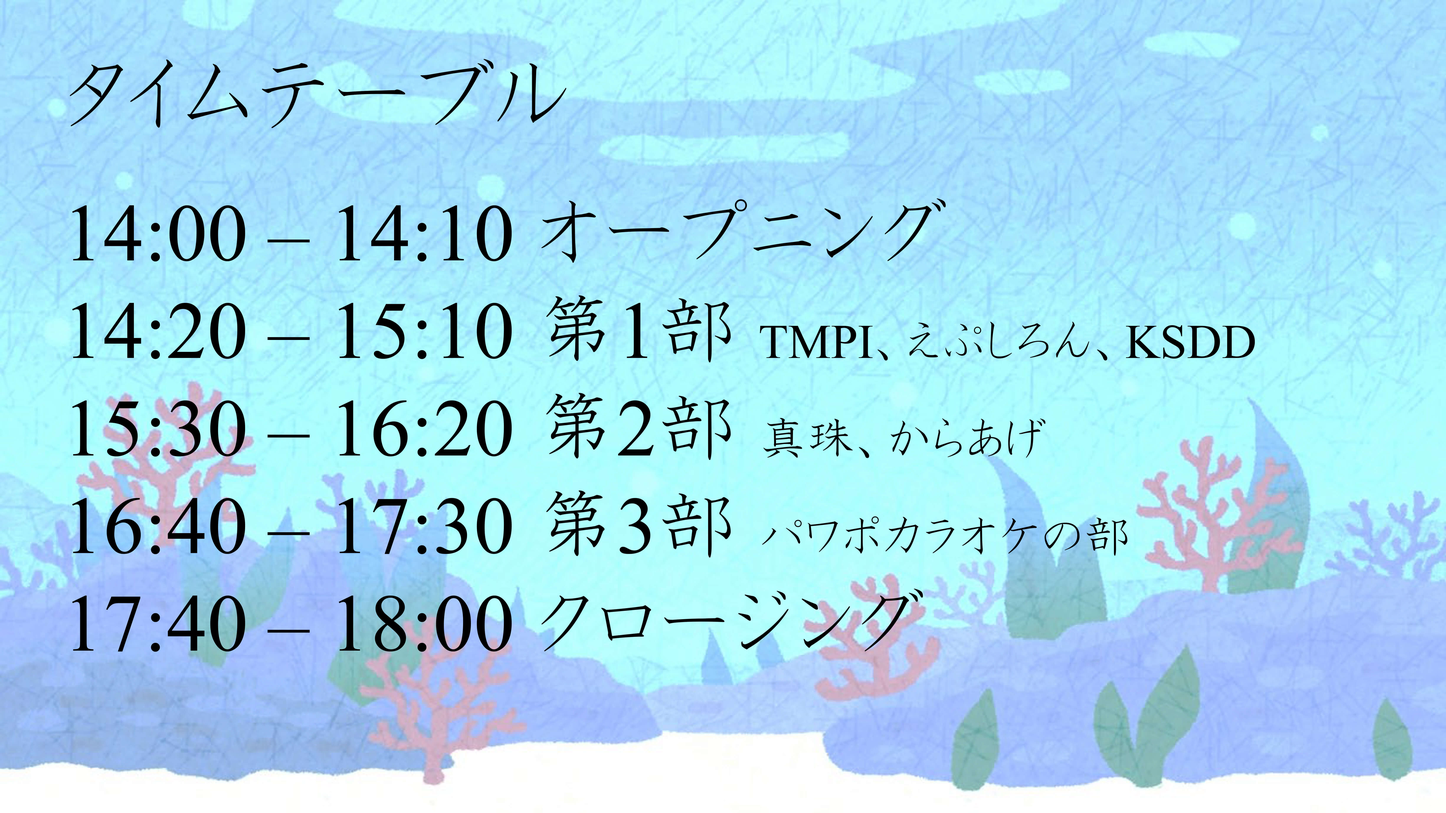
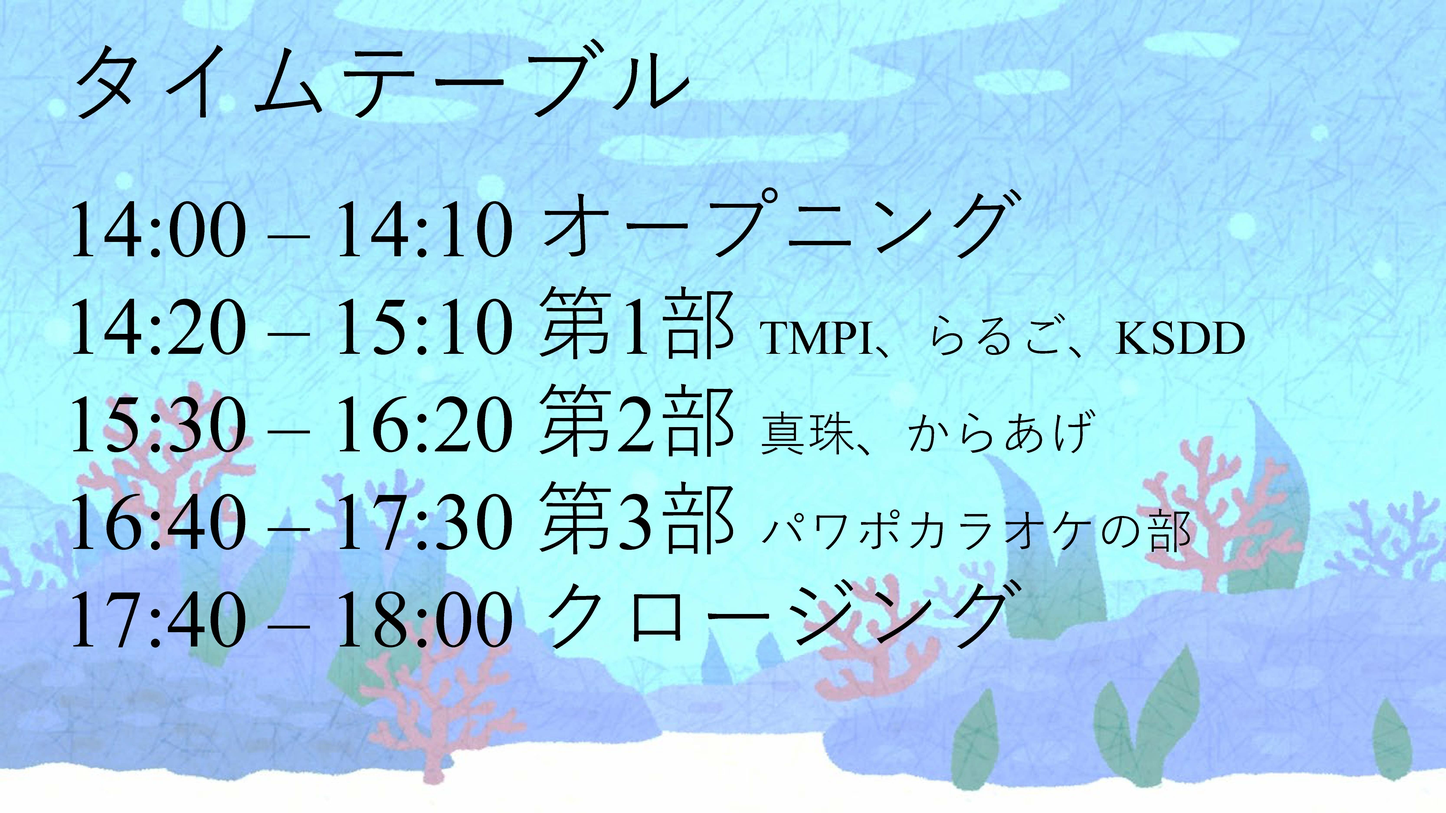
content: tofuConf#14のタイムテーブル更新 (#421)

diff --git a/_posts/2022-07-06-14th-tofuconf-general.md b/_posts/2022-07-06-14th-tofuconf-general.md
@@ -111,7 +111,11 @@ LT（ライトニングトーク）形式で自由に発表していただけま
 
 | 発表者名 | 発表予定タイトル |
 |:--------:|:----------------------:|
-|||
+|TMPI|八ヶ岳縦走キャンプに行ってきた|
+|らるご|面白い話|
+|真珠|スキルシートレビュー|
+|からあげ|『　』|
+|炭酸カリウム|原付と小特を取った話|
 
 [AC]はアカデミック枠での発表です
 
